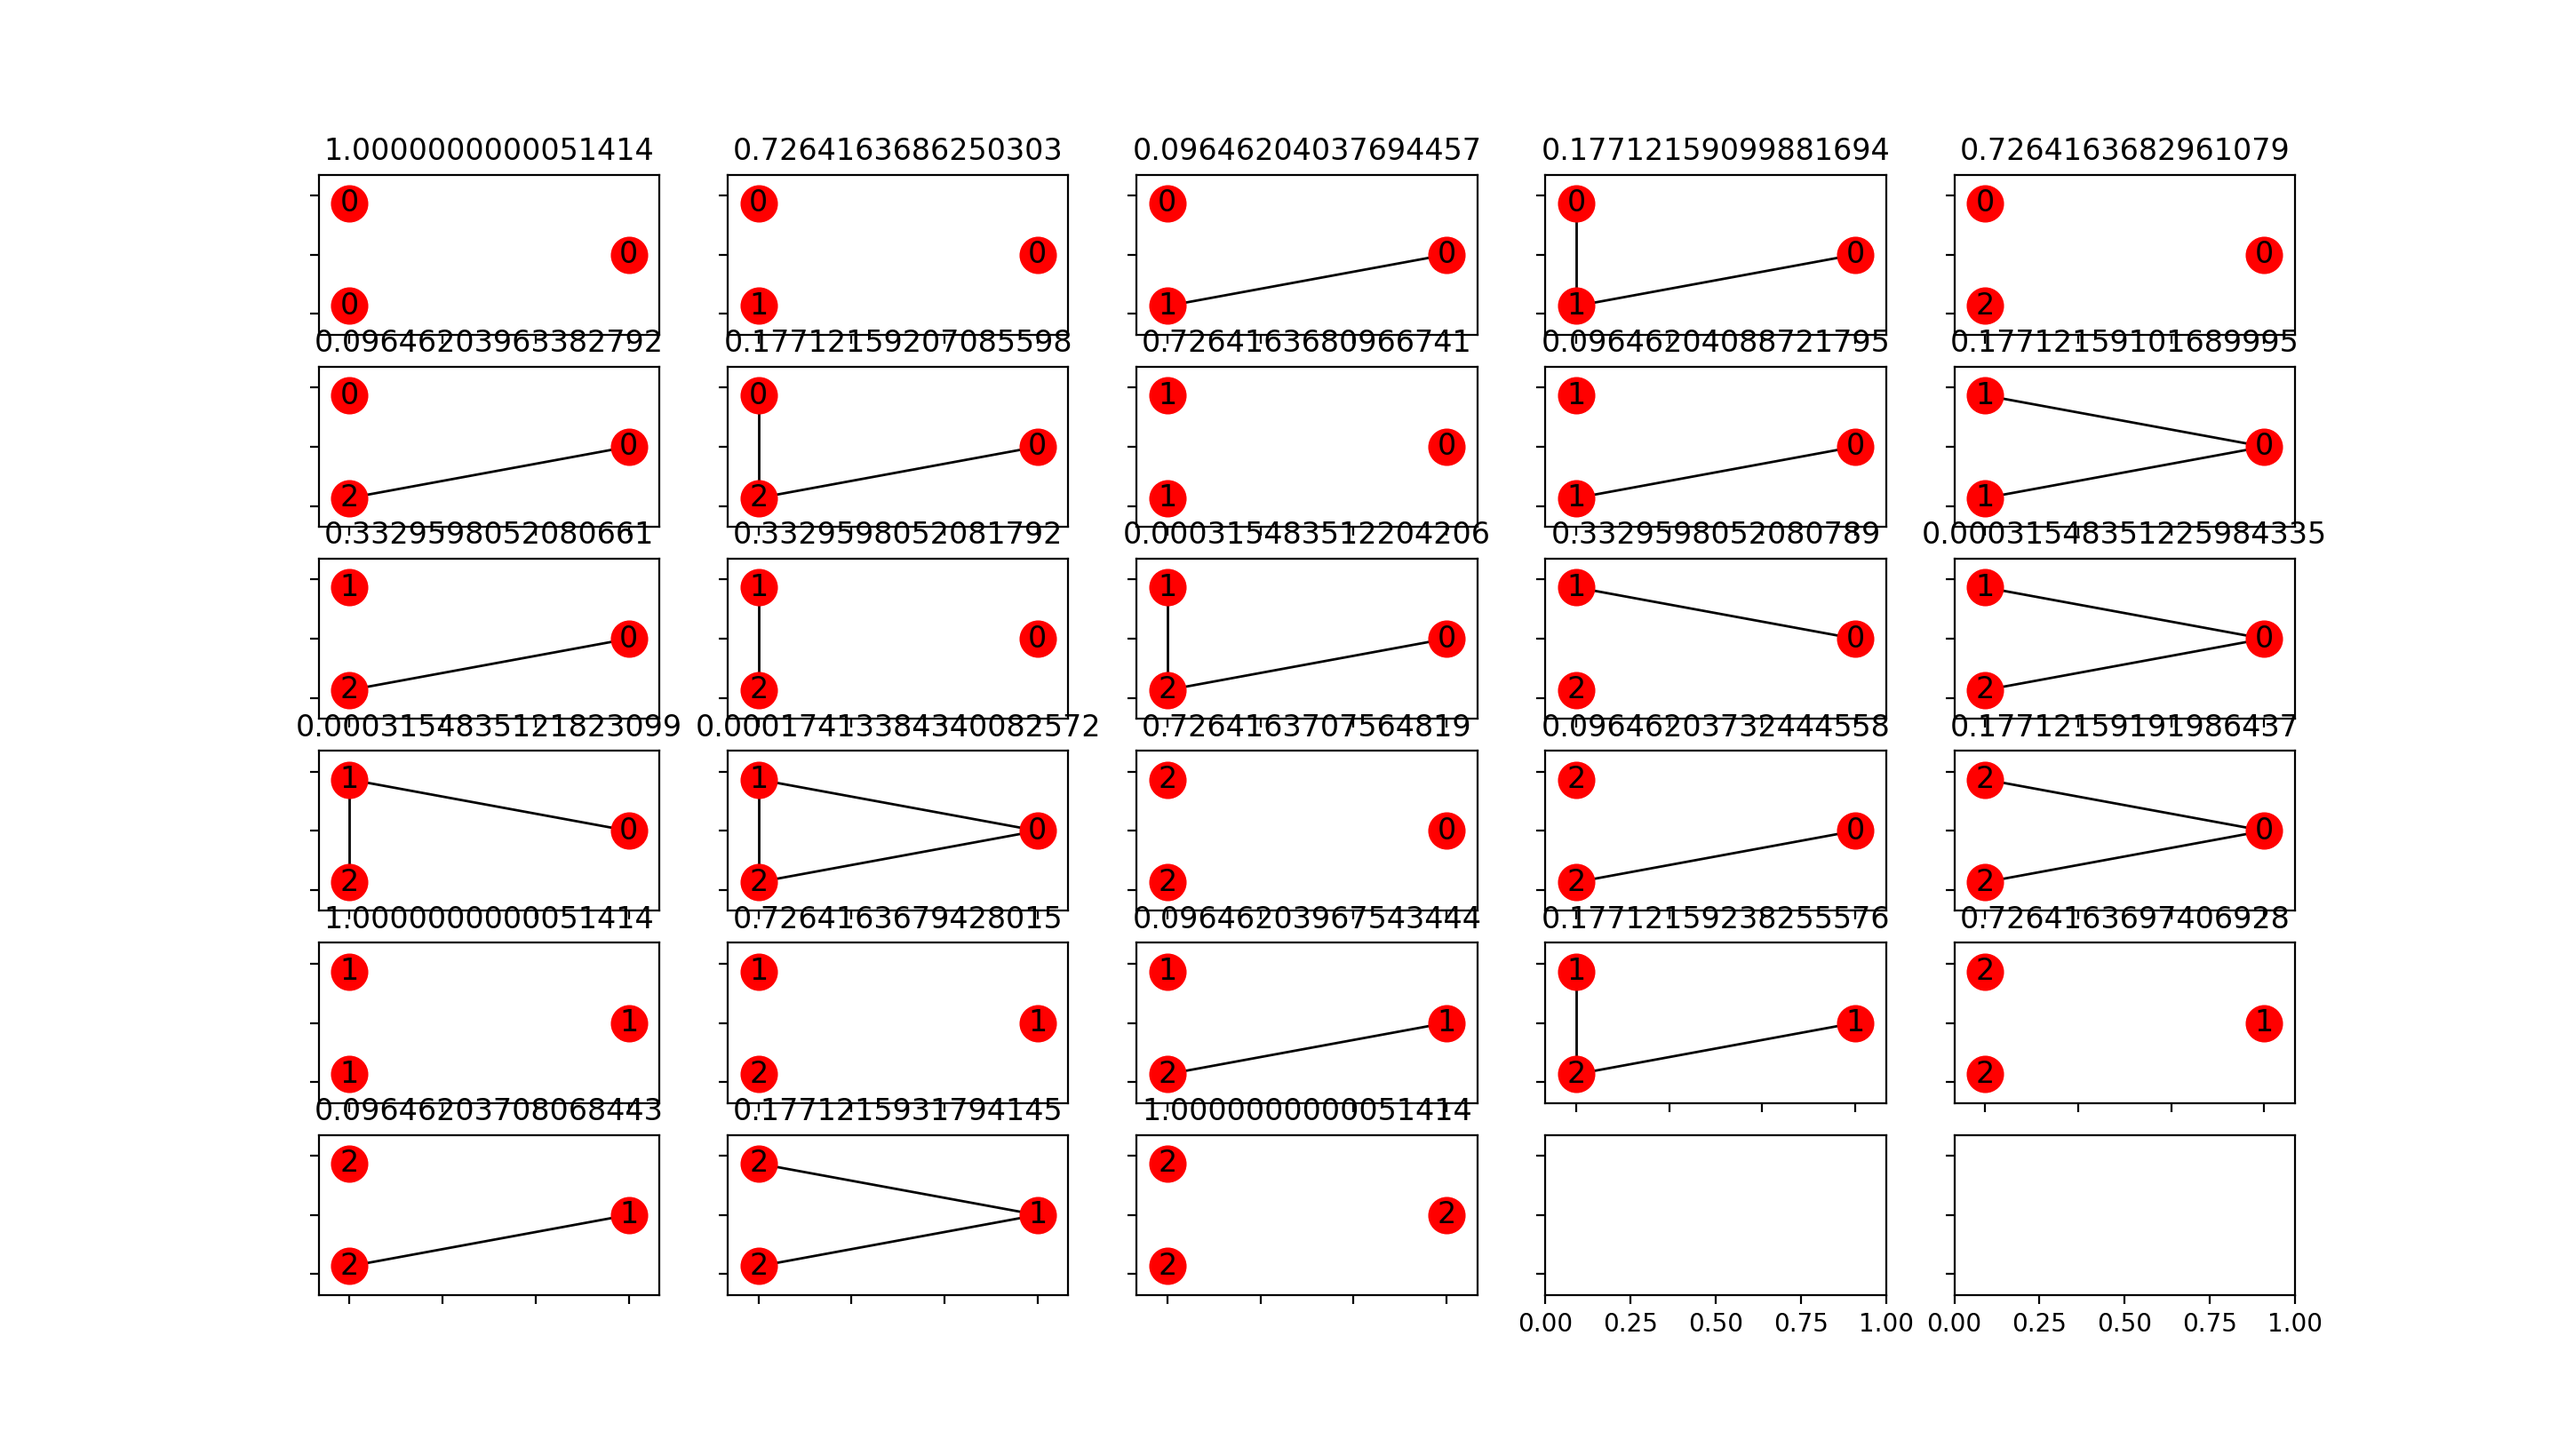
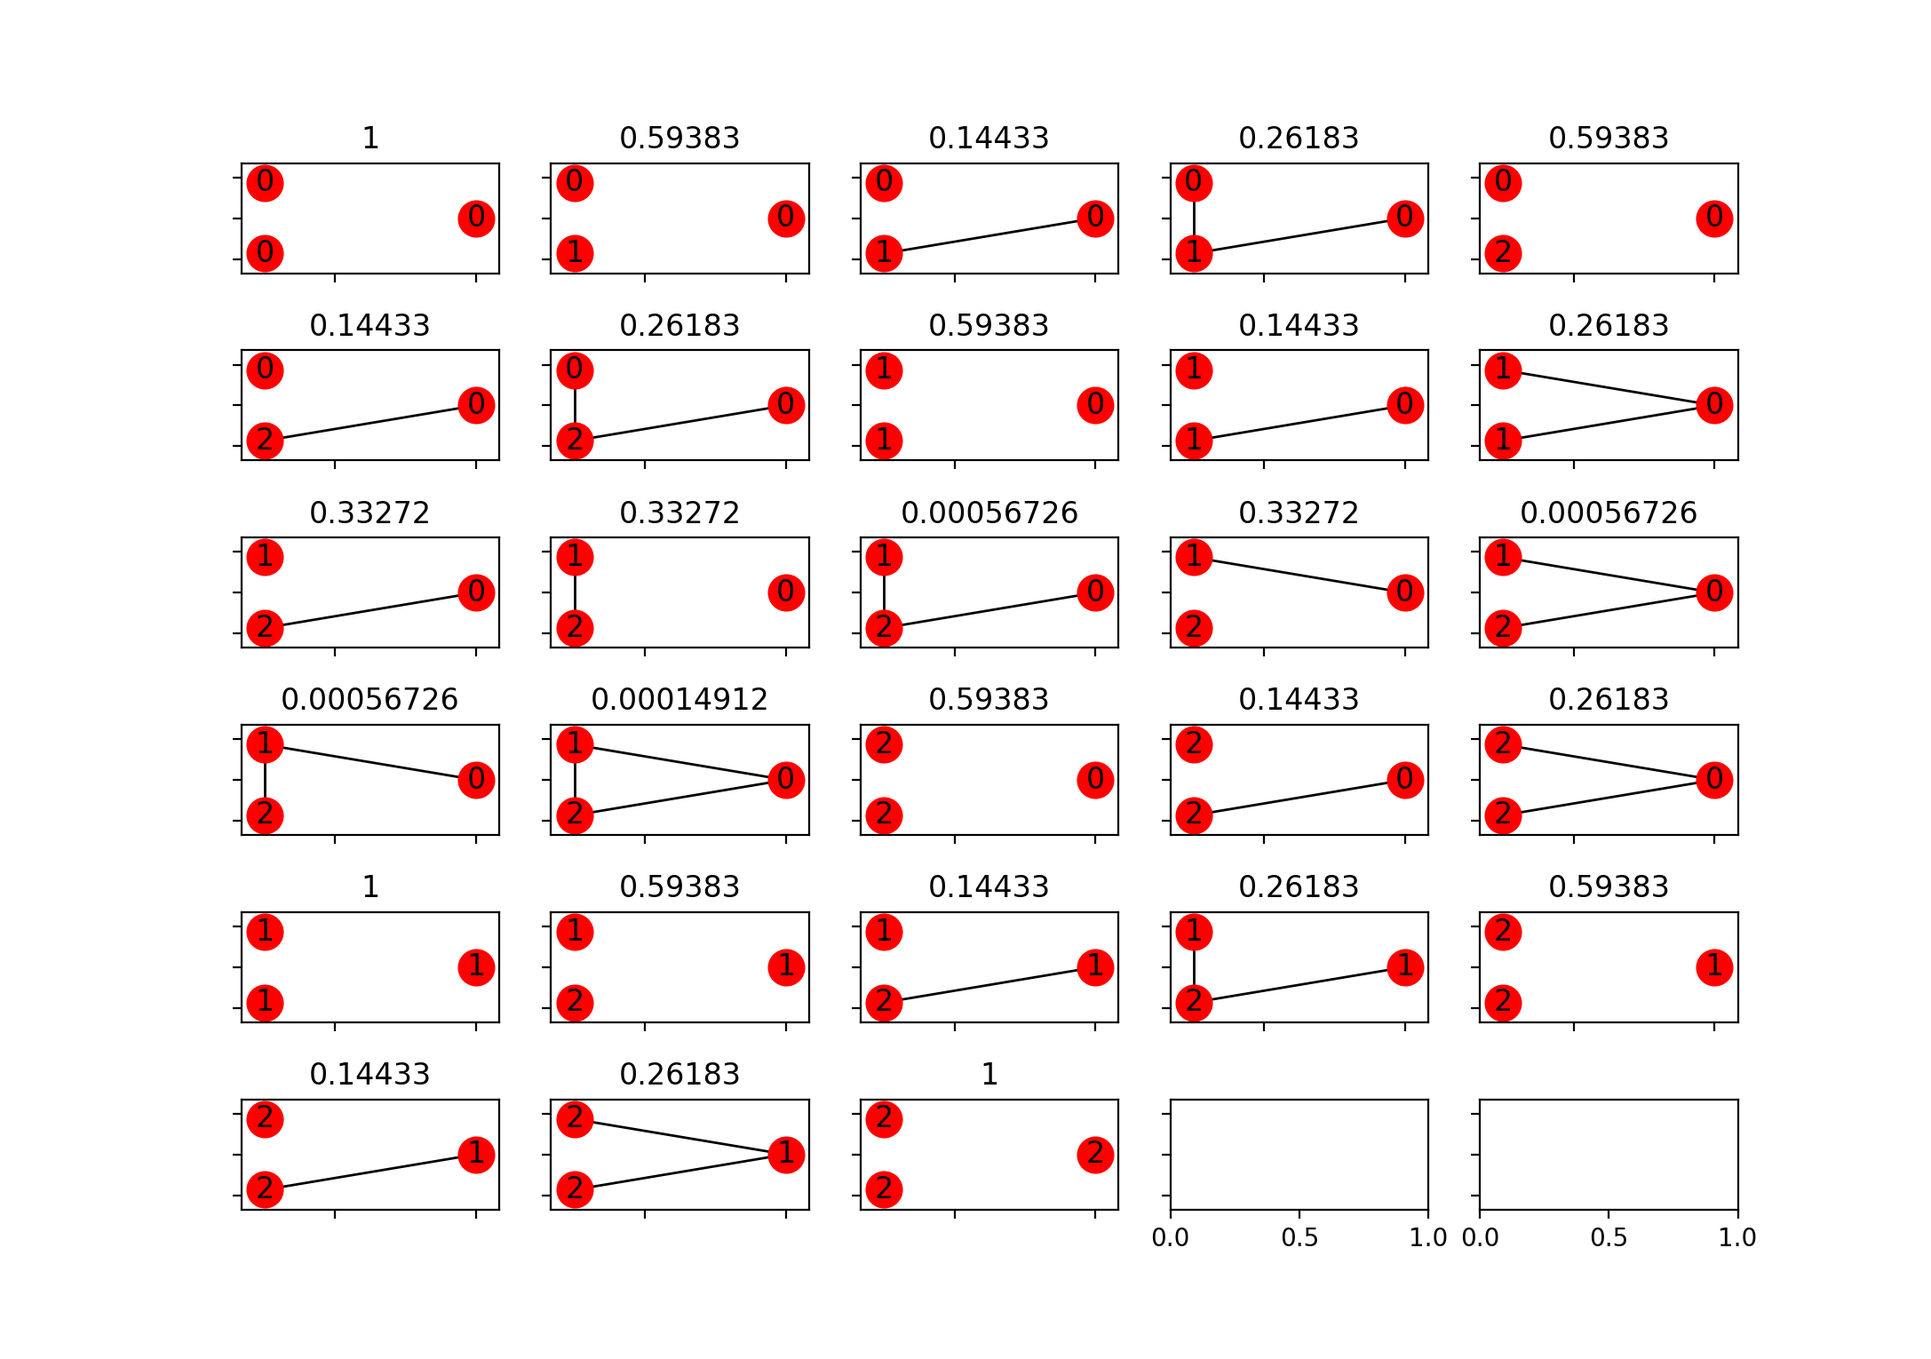
Changed formatting of flag visualizations

diff --git a/triangle_solver.py b/triangle_solver.py
@@ -304,6 +304,7 @@ def solve_triangle_problem(rho, verbose=False):
 def main():
     intervals = 100
     orig_rhos = [i / float(intervals) for i in range(intervals + 1)]
+    # orig_rhos = [0.334]
 
     # Plot the minimum density of independent 3-sets for 
     # different values of rho in [0, 1]
@@ -311,6 +312,7 @@ def main():
     pobjs = []
     for rho in orig_rhos:
         pobj = solve_triangle_problem(rho, verbose=False)
+        # pobj = solve_triangle_problem(rho, verbose=True)
         if pobj is not None:
             rhos.append(rho)
             pobjs.append(pobj)

diff --git a/graph_utils.py b/graph_utils.py
@@ -54,7 +54,8 @@ def draw_graph_form(graph_form):
             ax = axs[idx]
         else:
             ax = axs[idx // num_cols, idx % num_cols]
-        single_graph.draw(extra_text=str(coeff), ax=ax, draw=False)
+        single_graph.draw(extra_text=('%.5g' % coeff), ax=ax, draw=False)
+    plt.subplots_adjust(hspace=0.7)
     plt.show()
     plt.close()
 
